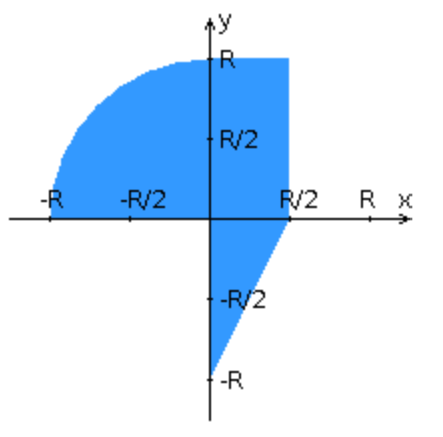
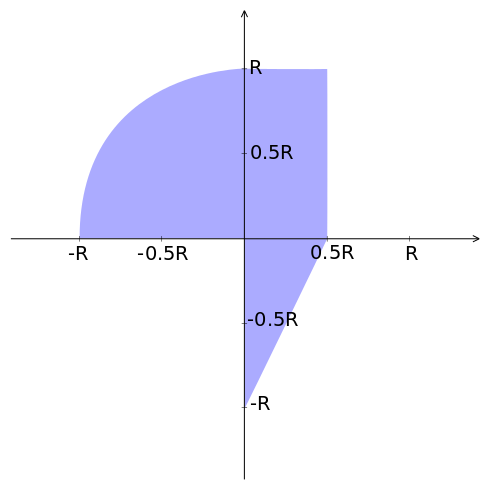
changed svg to png

Changed region(s): [[0.0, 0.0297, 0.9977, 0.9817]]

diff --git a/index.html b/index.html
@@ -16,7 +16,7 @@
         <table>
             <tr>
                 <td class="image-cell"><div class="parent-svg-container">
-                    <div class="svg-container"><object type="image/svg+xml" data="img/graph.svg" width="100%" height="100%" class="svg-content"></object></div>
+                    <img src="img/graph.png" class="responsive">
                 </div></td>
                 <td rowspan="2" class="right-col">
                         <div id="post"></div>

diff --git a/css/main.css b/css/main.css
@@ -252,4 +252,9 @@ table {
   background: #ab2a3d;
 }
 
+.responsive {
+  width: 100%;
+  height: auto;
+}
+
 /*# sourceMappingURL=main.css.map */

diff --git a/css/main.scss b/css/main.scss
@@ -257,6 +257,10 @@ table{
   }
 }
 
+.responsive {
+  width: 100%;
+  height: auto;
+}
 
 
 
